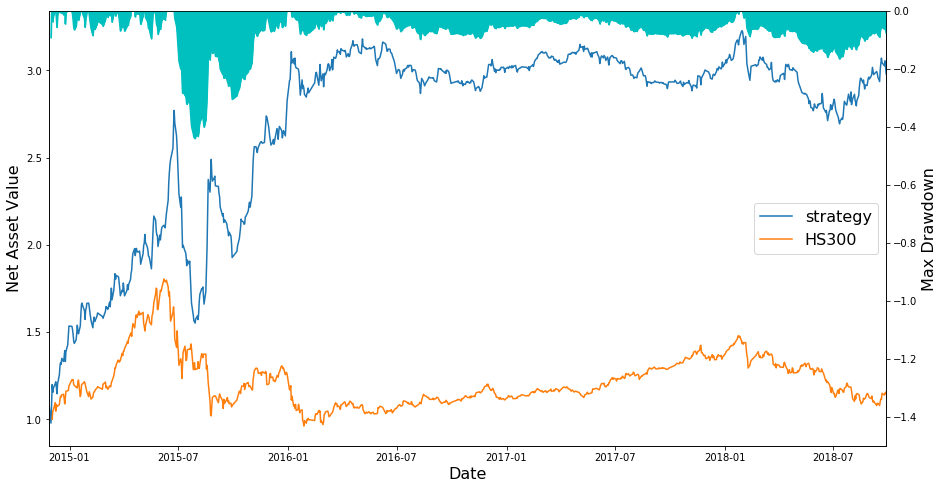
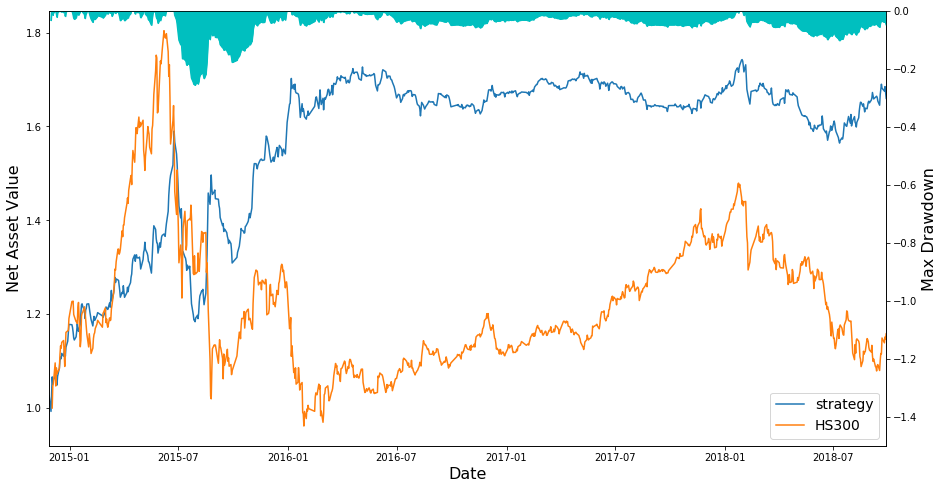
up

diff --git a/README.md b/README.md
@@ -16,7 +16,7 @@
 
    $loss =- |Close_3 - Open_1| - slippage$
 
-   2015年1月至2018年10月的总回报考虑滑点的情况下是2.97，最大回撤44%，沪深300的总回报1.11，最大回撤47%。
+   2015年1月至2018年10月的总回报考虑滑点的情况下是1.69，最大回撤26%，沪深300的总回报1.11，最大回撤47%。
 
    ![svm_hs300](E:\GitHub\SVM-and-HS300\data\svm_hs300.png)
 
